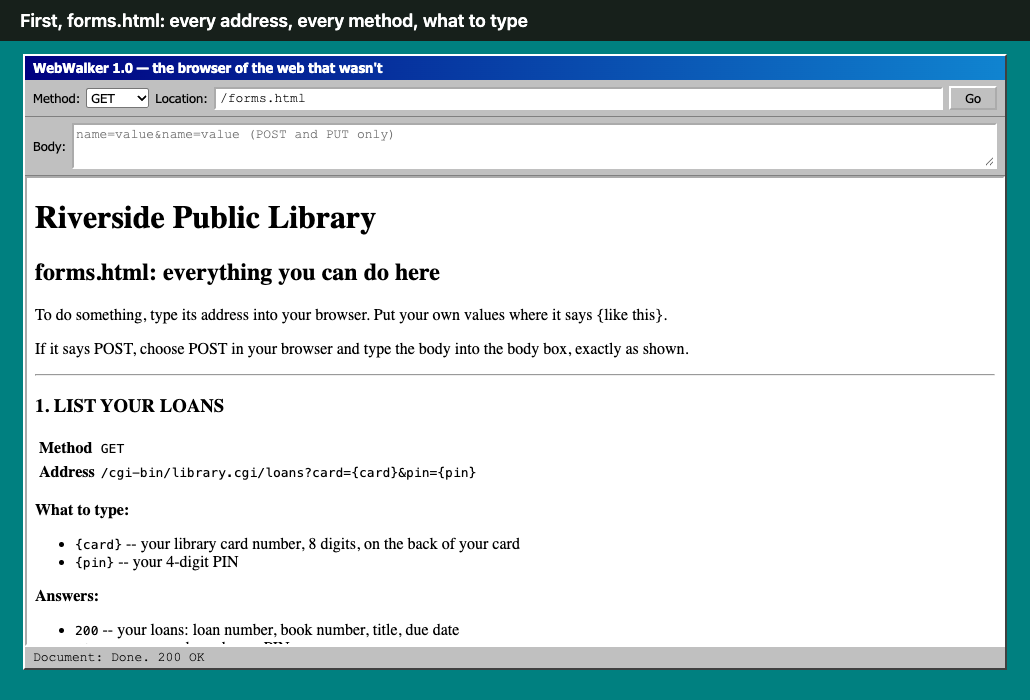
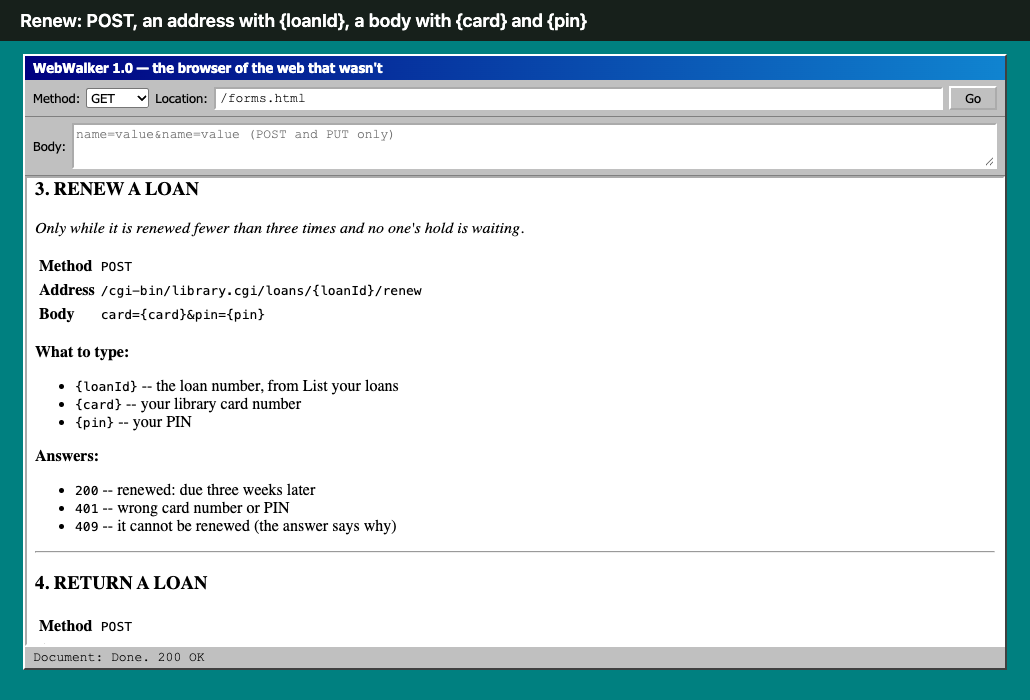
The web that wasn't publishes OpenAPI in YAML; the report steps through adding the controls back
The Perl site describes itself in openapi.yaml, as if YAML and OpenAPI had been there in 1996;
forms.cgi reads it with YAML::XS and writes forms.html from it, its Swagger UI. The report puts that
description beside heart-core's OpenAPI twin, and steps a JSON-over-HTTP loan through getting its
controls back: links, forms, forms by state, why absent, a version tag, one form set per state; and
what the library declares for each.

Claude-Session: https://claude.ai/code/session_01DXKjhFFSwvGnY8CittrsAV

diff --git a/docs/reports/the-web-that-wasnt/index.html b/docs/reports/the-web-that-wasnt/index.html
@@ -81,6 +81,10 @@ blockquote { margin: 0; padding: 0.5rem 0.9rem; border-left: 3px solid var(--rul
 .controls select { font: 600 0.82rem var(--mono); color: var(--fg); background: var(--surface); border: 1px solid var(--rule); border-radius: 999px; padding: 0.3rem 0.6rem; }
 blockquote.fielding { border-left-color: var(--leaf); color: var(--fg); font: 500 1.08rem/1.55 var(--display); padding: 0.6rem 1rem; }
 blockquote.fielding p + p { margin-top: 0.6rem; }
+pre .add { color: var(--leaf); }
+pre .del { color: var(--bad); }
+details[data-level] h3 { margin-top: 0.7rem; }
+details[data-level] h3 small { font-weight: 400; color: var(--muted); }
 blockquote cite { display: block; margin-top: 0.35rem; font: 400 0.85rem var(--body); color: var(--muted); font-style: normal; }
 details[data-level] { border-left: 2px solid var(--rule); padding-left: 0.9rem; display: grid; gap: 0.6rem; }
 details[data-level] > summary { cursor: pointer; color: var(--link); font-size: 0.9rem; font-weight: 600; list-style: none; }
@@ -143,25 +147,31 @@ details[data-level] ul { font-size: 0.93rem; line-height: 1.55; }
   </ul>
 
   <h2>The web that wasn't</h2>
-  <figure><img src="media/web-that-wasnt.gif" alt="WebWalker opens forms.html, Ana's loans as numbers, and a renewal refused with 409." loading="lazy"><figcaption>Perl and CGI.pm; WebWalker, a browser with a method menu and a body box.</figcaption></figure>
+  <figure><img src="media/web-that-wasnt.gif" alt="WebWalker opens the site's OpenAPI description, forms.html made from it, Ana's loans as numbers, and a renewal refused with 409." loading="lazy"><figcaption>Perl and CGI.pm, an OpenAPI description in YAML; WebWalker, a browser with a method menu and a body box.</figcaption></figure>
   <details data-level="2"><summary>How it works</summary>
     <ul>
-      <li><code>forms.cgi</code> writes <code>forms.html</code> from <code>library.def</code>: every operation, always listed.</li>
+      <li>The site publishes <code>openapi.yaml</code>; <code>forms.cgi</code> reads it with <code>YAML::XS</code> and writes <code>forms.html</code>, the page people browse it by.</li>
       <li><code>library.cgi</code> answers with data only, and reads each POST's body through CGI.pm's <code>param()</code>.</li>
     </ul>
     <div class="pair">
-      <figure><img src="media/forms-html.png" alt="forms.html: Renew a loan, POST, its address and body." loading="lazy"><figcaption><code>forms.html</code></figcaption></figure>
-      <figure><img src="media/loans-data.png" alt="Ana's loans as a table of numbers." loading="lazy"><figcaption>Her loans</figcaption></figure>
+      <figure><img src="media/openapi-yaml.png" alt="The site's openapi.yaml shown in WebWalker." loading="lazy"><figcaption><code>openapi.yaml</code></figcaption></figure>
+      <figure><img src="media/forms-html.png" alt="forms.html: Renew a loan, POST, its address and body." loading="lazy"><figcaption><code>forms.html</code>, from it</figcaption></figure>
     </div>
-    <details data-level="3"><summary>library.def, and the POST by hand</summary>
-<pre><code>operation: renew
-title: Renew a loan
-method: POST
-address: /cgi-bin/library.cgi/loans/{loanId}/renew
-body: card={card}&amp;pin={pin}
-field: loanId | the loan number, from List your loans
-answer: 200 | renewed: due three weeks later
-answer: 409 | it cannot be renewed (the answer says why)</code></pre>
+    <figure><img src="media/loans-data.png" alt="Ana's loans as a table of numbers." loading="lazy"><figcaption>Her loans: numbers to copy</figcaption></figure>
+    <details data-level="3"><summary>The YAML, and the POST by hand</summary>
+<pre><code>/loans/{loanId}/renew:
+  post:
+    operationId: renewLoan
+    summary: Renew a loan
+    description: Only while it is renewed fewer than three times and no one's hold is waiting.
+    requestBody:
+      content:
+        application/x-www-form-urlencoded:
+          schema: { $ref: '#/components/schemas/Member' }   # card, pin
+    responses:
+      '200': { description: 'renewed: due three weeks later' }
+      '409': { description: it cannot be renewed (the answer says why) }
+      '401': { description: wrong card number or PIN }</code></pre>
 <pre><code>curl -X POST -d 'card=…&amp;pin=…' http://localhost:8150/cgi-bin/library.cgi/loans/3310/renew
 HTTP/1.1 409 Conflict
 Cannot renew. A hold is waiting for this book, so it can't be renewed.</code></pre>
@@ -187,17 +197,19 @@ Cannot renew. A hold is waiting for this book, so it can't be renewed.</code></p
     </details>
   </details>
 
-  <h2>The same document, thirty years apart</h2>
+  <h2>The same document, then and now</h2>
   <div class="pair">
-    <div><span class="label">forms.html, from library.def</span>
-<pre><code>3. RENEW A LOAN
-Method   POST
-Address  /cgi-bin/library.cgi/loans/{loanId}/renew
-Body     card={card}&amp;pin={pin}
-Answers  200 renewed
-         409 it cannot be renewed
-         401 wrong card number or PIN</code></pre></div>
-    <div><span class="label">The OpenAPI twin, from the declaration</span>
+    <div><span class="label">1996: the Perl site's openapi.yaml</span>
+<pre><code>/loans/{loanId}/renew:
+  post:
+    summary: Renew a loan
+    description: Only while it is renewed
+      fewer than three times and no one's
+      hold is waiting.
+    responses:
+      '200': renewed
+      '409': it cannot be renewed</code></pre></div>
+    <div><span class="label">2026: heart-core's OpenAPI twin</span>
 <pre><code>/loans/{id}/actions/renew:
   post:
     description: Offered while the book is out,
@@ -208,7 +220,7 @@ Answers  200 renewed
       '200': The loan after the act
       '409': NotOffered</code></pre></div>
   </div>
-  <p class="note">Both list renew for every loan, always. Whether this loan can be renewed now, each says only after the call.</p>
+  <p class="note">Both list renew for every loan, always; in 1996, <code>forms.html</code> was its Swagger UI. Whether this loan can be renewed now, each says only after the call.</p>
 
   <h2>One loan, every client</h2>
   <div class="table-scroll"><table>
@@ -238,6 +250,90 @@ Answers  200 renewed
     "reason": "A hold is waiting for this book, so it can't be renewed."
 } ] }</code></pre>
       <p class="note">The same document for every loan in the same state.</p>
+    </details>
+  </details>
+
+  <h2>Adding the controls back, step by step</h2>
+  <p>A loan as JSON over HTTP, given back what Ana's page gives her: data, then the controls with it.</p>
+  <ol>
+    <li><b>The answer links itself</b> and names its vocabulary.</li>
+    <li><b>The acts arrive as forms:</b> where to send, how, and what to put in.</li>
+    <li><b>The forms follow the state:</b> only what this loan can do now.</li>
+    <li><b>What's absent says why.</b></li>
+    <li><b>A version tag guards the act:</b> stale is refused.</li>
+    <li><b>One form set per state,</b> shared by every loan in it.</li>
+  </ol>
+  <details data-level="2"><summary>The wire, step by step</summary>
+    <h3>Before · JSON over HTTP</h3>
+<pre><code>GET /loans/3310   Accept: application/json
+
+{ "id": 3310, "title": "The Hobbit", "author": "J. R. R. Tolkien",
+  "due": "2026-11-12", "renewals": 0, "standing": "hold waiting" }</code></pre>
+    <p class="note">Data only. What can be done is in the OpenAPI document, for every loan alike.</p>
+    <h3>1 · The answer links itself and names its vocabulary</h3>
+<pre><code><span class="add">+ "_links": {
++   "self": { "href": "/loans/3310" },
++   "curies": [ { "name": "library", "href": "/profiles/library#{rel}", "templated": true } ]
++ }</span></code></pre>
+    <p class="note">Each relation, such as <code>library:renew</code>, is defined once, in the library's profile.</p>
+    <h3>2 · The acts arrive as forms <small>(Matilda)</small></h3>
+<pre><code><span class="add">+ "_forms": {
++   "library:renew": {
++     "title": "Renew",
++     "_links": { "target": { "href": "/loans/3311/actions/renew" } },
++     "method": "POST",
++     "contentType": "application/json",
++     "schema": { "type": "object", "properties": {} }
++   },
++   "library:return": { … }
++ }</span></code></pre>
+    <h3>3 · The forms follow the state <small>(The Hobbit)</small></h3>
+<pre><code>  "standing": "hold waiting",
+  "_forms": {
+<span class="del">-   "library:renew": { … },</span>
+    "library:return": { … }
+  }</code></pre>
+    <p class="note">The server offers only what this loan can do now. A client acts on what is there, with no rule of its own.</p>
+    <h3>4 · What's absent says why</h3>
+<pre><code><span class="add">+ "hr:unavailable": { "href": "/unavailable/61bc1cd6003e61f0" }</span>
+
+GET /unavailable/61bc1cd6003e61f0
+{ "unavailable": [ { "rel": "/profiles/library#renew", "title": "Renew",
+    "reason": "A hold is waiting for this book, so it can't be renewed." } ] }</code></pre>
+    <p class="note">A person sees it beside the greyed button; an agent reads it as data.</p>
+    <h3>5 · A version tag guards the act</h3>
+<pre><code>ETag: "seq-1.hsf.L0.d96396fb7e046607"
+
+POST /loans/3311/actions/renew   If-Match: "seq-0.stale"
+412 Precondition Failed   The act is stale: the state has changed</code></pre>
+    <h3>6 · One form set per state, shared <small>(L2)</small></h3>
+<pre><code><span class="del">- "_forms": { … },</span>
+<span class="add">+ "hr:forms": { "href": "/affordance-sets/31a5b6105822d925",
++               "integrity": "sha256-MaW2EFgi2SXHXtDeNNqfRqaPpMhuPfrUB/RV+oPsfQ8=" }</span></code></pre>
+    <p class="note">Every loan with a hold waiting links the same set: fetched once, checked by its integrity.</p>
+    <details data-level="3"><summary>What the library declares, step by step</summary>
+<pre><code>// 1 · its vocabulary
+Profile(name = "library", relations = listOf(Relation("renew", AlpsType.UNSAFE, "Renew", …), …))
+
+// 2 · its acts
+acts = listOf(Act("renew", "renew", NO_INPUT), Act("return", "return", NO_INPUT))
+
+// 3 · what each state offers
+keyOf = { it.standing }
+offered = { standing -> when (standing) {
+    RENEWABLE -> listOf("renew", "return")
+    RETURNED -> emptyList()
+    else -> listOf("return")
+} }
+
+// 4 · why, when it doesn't
+whyAbsent = { standing, _ -> WHY.getValue(standing) }   // ON_HOLD: "A hold is waiting for this book, …"
+
+// 5 · the version every act is checked against
+versionOf = { it.version }
+
+// 6 · nothing to declare: the client asks for L2 with Prefer: forms=link</code></pre>
+      <p class="note">heart-core writes the wire from it: the HTML, both JSON dialects, the profile and the OpenAPI twin. For an API you don't own, the HEART gateway does the same from its OpenAPI description: <a href="https://jogoshugh.github.io/heart-rise-artie/reports/take-heart/">Take HEART</a>; for a GitHub pull request, step by step: <a href="https://jogoshugh.github.io/heart-rise-artie/reports/information-and-controls/">Information and Controls</a>.</p>
     </details>
   </details>
 

diff --git a/exhibits/the-web-that-wasnt/captures/forms.html b/exhibits/the-web-that-wasnt/captures/forms.html
@@ -4,6 +4,6 @@
 <html><head><title>Riverside Public Library -- forms.html</title>
 </head>
 <body bgcolor="#FFFFFF">
-<h1>Riverside Public Library</h1><h2>forms.html: everything you can do here</h2><p>To do something, type its address into your browser. Put your own values where it says {like this}.</p><p>If it says POST, choose POST in your browser and type the body into the body box, exactly as shown.</p><hr><h3>1. LIST YOUR LOANS</h3><table border="0" cellpadding="2"><tr><td><b>Method</b></td> <td><tt>GET</tt></td></tr> <tr><td><b>Address</b></td> <td><tt>/cgi-bin/library.cgi/loans?card={card}&amp;pin={pin}</tt></td></tr></table><p><b>What to type:</b></p><ul><li><tt>{card}</tt> -- your library card number, 8 digits, on the back of your card</li> <li><tt>{pin}</tt> -- your 4-digit PIN</li></ul><p><b>Answers:</b></p><ul><li><tt>200</tt> -- your loans: loan number, book number, title, due date</li> <li><tt>401</tt> -- wrong card number or PIN</li></ul><hr><h3>2. LOOK AT ONE LOAN</h3><table border="0" cellpadding="2"><tr><td><b>Method</b></td> <td><tt>GET</tt></td></tr> <tr><td><b>Address</b></td> <td><tt>/cgi-bin/library.cgi/loans/{loanId}?card={card}&amp;pin={pin}</tt></td></tr></table><p><b>What to type:</b></p><ul><li><tt>{loanId}</tt> -- the loan number, from List your loans</li> <li><tt>{card}</tt> -- your library card number</li> <li><tt>{pin}</tt> -- your PIN</li></ul><p><b>Answers:</b></p><ul><li><tt>200</tt> -- the loan</li> <li><tt>404</tt> -- no such loan</li></ul><hr><h3>3. RENEW A LOAN</h3><table border="0" cellpadding="2"><tr><td><b>Method</b></td> <td><tt>POST</tt></td></tr> <tr><td><b>Address</b></td> <td><tt>/cgi-bin/library.cgi/loans/{loanId}/renew</tt></td></tr> <tr><td><b>Body</b></td> <td><tt>card={card}&amp;pin={pin}</tt></td></tr></table><p><b>What to type:</b></p><ul><li><tt>{loanId}</tt> -- the loan number, from List your loans</li> <li><tt>{card}</tt> -- your library card number</li> <li><tt>{pin}</tt> -- your PIN</li></ul><p><b>Answers:</b></p><ul><li><tt>200</tt> -- renewed: due three weeks later</li> <li><tt>409</tt> -- it cannot be renewed (the answer says why)</li> <li><tt>401</tt> -- wrong card number or PIN</li></ul><hr><h3>4. RETURN A LOAN</h3><table border="0" cellpadding="2"><tr><td><b>Method</b></td> <td><tt>POST</tt></td></tr> <tr><td><b>Address</b></td> <td><tt>/cgi-bin/library.cgi/loans/{loanId}/return</tt></td></tr> <tr><td><b>Body</b></td> <td><tt>card={card}&amp;pin={pin}</tt></td></tr></table><p><b>What to type:</b></p><ul><li><tt>{loanId}</tt> -- the loan number, from List your loans</li> <li><tt>{card}</tt> -- your library card number</li> <li><tt>{pin}</tt> -- your PIN</li></ul><p><b>Answers:</b></p><ul><li><tt>200</tt> -- returned</li> <li><tt>409</tt> -- it was returned already</li> <li><tt>401</tt> -- wrong card number or PIN</li></ul><hr><p><i>Best viewed in a browser with a method menu and a body box.</i></p><p><small>Last updated 2026-11-04. Generated by forms.cgi from library.def.</small></p>
+<h1>Riverside Public Library</h1><h2>forms.html: everything you can do here</h2><p>To do something, type its address into your browser. Put your own values where it says {like this}.</p><p>If it says POST, choose POST in your browser and type the body into the body box, exactly as shown.</p><hr><h3>1. LIST YOUR LOANS</h3><table border="0" cellpadding="2"><tr><td><b>Method</b></td> <td><tt>GET</tt></td></tr> <tr><td><b>Address</b></td> <td><tt>/cgi-bin/library.cgi/loans?card={card}&amp;pin={pin}</tt></td></tr></table><p><b>What to type:</b></p><ul><li><tt>{card}</tt> -- your library card number, 8 digits, on the back of your card</li> <li><tt>{pin}</tt> -- your 4-digit PIN</li></ul><p><b>Answers:</b></p><ul><li><tt>200</tt> -- your loans: loan number, book number, title, due date</li> <li><tt>401</tt> -- wrong card number or PIN</li></ul><hr><h3>2. LOOK AT ONE LOAN</h3><table border="0" cellpadding="2"><tr><td><b>Method</b></td> <td><tt>GET</tt></td></tr> <tr><td><b>Address</b></td> <td><tt>/cgi-bin/library.cgi/loans/{loanId}?card={card}&amp;pin={pin}</tt></td></tr></table><p><b>What to type:</b></p><ul><li><tt>{loanId}</tt> -- the loan number, from List your loans</li> <li><tt>{card}</tt> -- your library card number, 8 digits, on the back of your card</li> <li><tt>{pin}</tt> -- your 4-digit PIN</li></ul><p><b>Answers:</b></p><ul><li><tt>200</tt> -- the loan</li> <li><tt>404</tt> -- no such loan</li></ul><hr><h3>3. RENEW A LOAN</h3><p><i>Only while it is renewed fewer than three times and no one's hold is waiting.</i></p><table border="0" cellpadding="2"><tr><td><b>Method</b></td> <td><tt>POST</tt></td></tr> <tr><td><b>Address</b></td> <td><tt>/cgi-bin/library.cgi/loans/{loanId}/renew</tt></td></tr> <tr><td><b>Body</b></td> <td><tt>card={card}&amp;pin={pin}</tt></td></tr></table><p><b>What to type:</b></p><ul><li><tt>{loanId}</tt> -- the loan number, from List your loans</li> <li><tt>{card}</tt> -- your library card number</li> <li><tt>{pin}</tt> -- your PIN</li></ul><p><b>Answers:</b></p><ul><li><tt>200</tt> -- renewed: due three weeks later</li> <li><tt>401</tt> -- wrong card number or PIN</li> <li><tt>409</tt> -- it cannot be renewed (the answer says why)</li></ul><hr><h3>4. RETURN A LOAN</h3><table border="0" cellpadding="2"><tr><td><b>Method</b></td> <td><tt>POST</tt></td></tr> <tr><td><b>Address</b></td> <td><tt>/cgi-bin/library.cgi/loans/{loanId}/return</tt></td></tr> <tr><td><b>Body</b></td> <td><tt>card={card}&amp;pin={pin}</tt></td></tr></table><p><b>What to type:</b></p><ul><li><tt>{loanId}</tt> -- the loan number, from List your loans</li> <li><tt>{card}</tt> -- your library card number</li> <li><tt>{pin}</tt> -- your PIN</li></ul><p><b>Answers:</b></p><ul><li><tt>200</tt> -- returned</li> <li><tt>401</tt> -- wrong card number or PIN</li> <li><tt>409</tt> -- it was returned already</li></ul><hr><p><i>Best viewed in a browser with a method menu and a body box.</i></p><p><small>Last updated 2026-11-04. Generated by forms.cgi from library.openapi.yaml, OpenAPI 3.0.3.</small></p>
 </body>
 </html>

diff --git a/exhibits/the-web-that-wasnt/perl/htdocs/browser/index.html b/exhibits/the-web-that-wasnt/perl/htdocs/browser/index.html
@@ -52,7 +52,10 @@
       body: sends ? $("body").value : undefined,
       headers: sends ? { "Content-Type": "application/x-www-form-urlencoded" } : {},
     });
-    $("page").srcdoc = await answer.text();
+    const text = await answer.text();
+    const html = (answer.headers.get("Content-Type") || "").includes("text/html");
+    const escaped = text.replace(/&/g, "&amp;").replace(/</g, "&lt;");
+    $("page").srcdoc = html ? text : `<pre style="font: 13px 'Courier New', monospace; margin: 8px">${escaped}</pre>`;
     const failed = answer.status >= 400;
     $("status").innerHTML = `Document: Done. ${failed ? "<b>" : ""}${answer.status} ${answer.statusText}${failed ? "</b>" : ""}`;
   }

diff --git a/exhibits/the-web-that-wasnt/perl/htdocs/index.html b/exhibits/the-web-that-wasnt/perl/htdocs/index.html
@@ -3,7 +3,7 @@
 <BODY BGCOLOR="#FFFFFF">
 <H1>Welcome to Riverside Public Library on the World Wide Web!</H1>
 <P>You can see your loans, renew them and return them from home.</P>
-<P>Everything you can do here is listed in <B>forms.html</B>.
+<P>Everything you can do here is listed in <B>forms.html</B>, made from our API description, <TT>/openapi.yaml</TT>.
 Type <TT>/forms.html</TT> at the end of this address in your browser, and press Enter.</P>
 <P>Keep your library card and PIN handy: you will type them into every address.</P>
 <HR>
